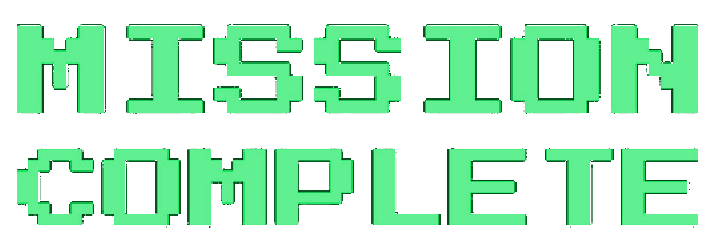
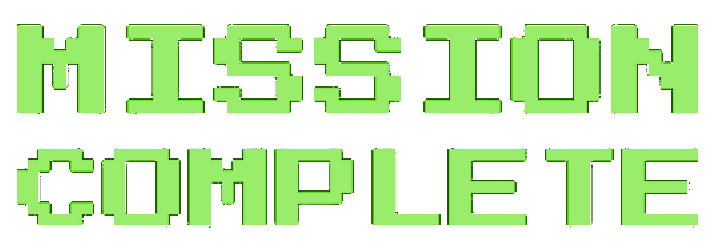
added victory screen, reduced splash screen time

diff --git a/game.py b/game.py
@@ -97,7 +97,6 @@ class Game:
                     self.__level_num +=1
                     new_level = True
                 elif self.__failed_incident_max <= 0 : #perdu
-                    #mettre ecran de defaite
                     print("defeat")
                     # Ecran defaite (game over)
                     splash_image = pygame.image.load("img\game_over.png")
@@ -106,9 +105,6 @@ class Game:
                     self.__screen.blit(splash_image, (origin_x, origin_y))
 
                     pygame.display.update()
-                    time.sleep(5)
-
-                    self.__screen.fill((0,0,0))
                     time.sleep(5)
 
                     self.__running = False
@@ -121,6 +117,15 @@ class Game:
                 self.__views = self.__setup_views(self.__level)
             else:
                 victoire = True
+                print("victory")
+                # Ecran victoire
+                splash_image = pygame.image.load("img\mission_complete.png")
+                origin_x = (settings.SCREEN_WIDTH/2) - (splash_image.get_width()/2)
+                origin_y = (settings.SCREEN_HEIGHT/2) - (splash_image.get_height()/2)
+                self.__screen.blit(splash_image, (origin_x, origin_y))
+
+                pygame.display.update()
+                time.sleep(5)
 
         music.stop()
         self.__fps.stop()

diff --git a/cert93.py b/cert93.py
@@ -40,10 +40,10 @@ def __run_game() -> None:
     win32gui.SetLayeredWindowAttributes(hwnd, win32api.RGB(*fuchsia), 0, win32con.LWA_COLORKEY)
 
     # Splash logo dev
-    splash_screen("img\logo_stacknoodles.png", 2, screen)
+    splash_screen("img\logo_stacknoodles.png", 1, screen)
 
     # Splash screen logo jeu
-    splash_screen("img\logo_cert93.png", 3, screen)
+    splash_screen("img\logo_cert93.png", 2, screen)
 
     # Enlever les settings d'opacité à la fenêtre layered
     win32gui.SetLayeredWindowAttributes(hwnd, win32api.RGB(*fuchsia), 255, win32con.LWA_ALPHA)
